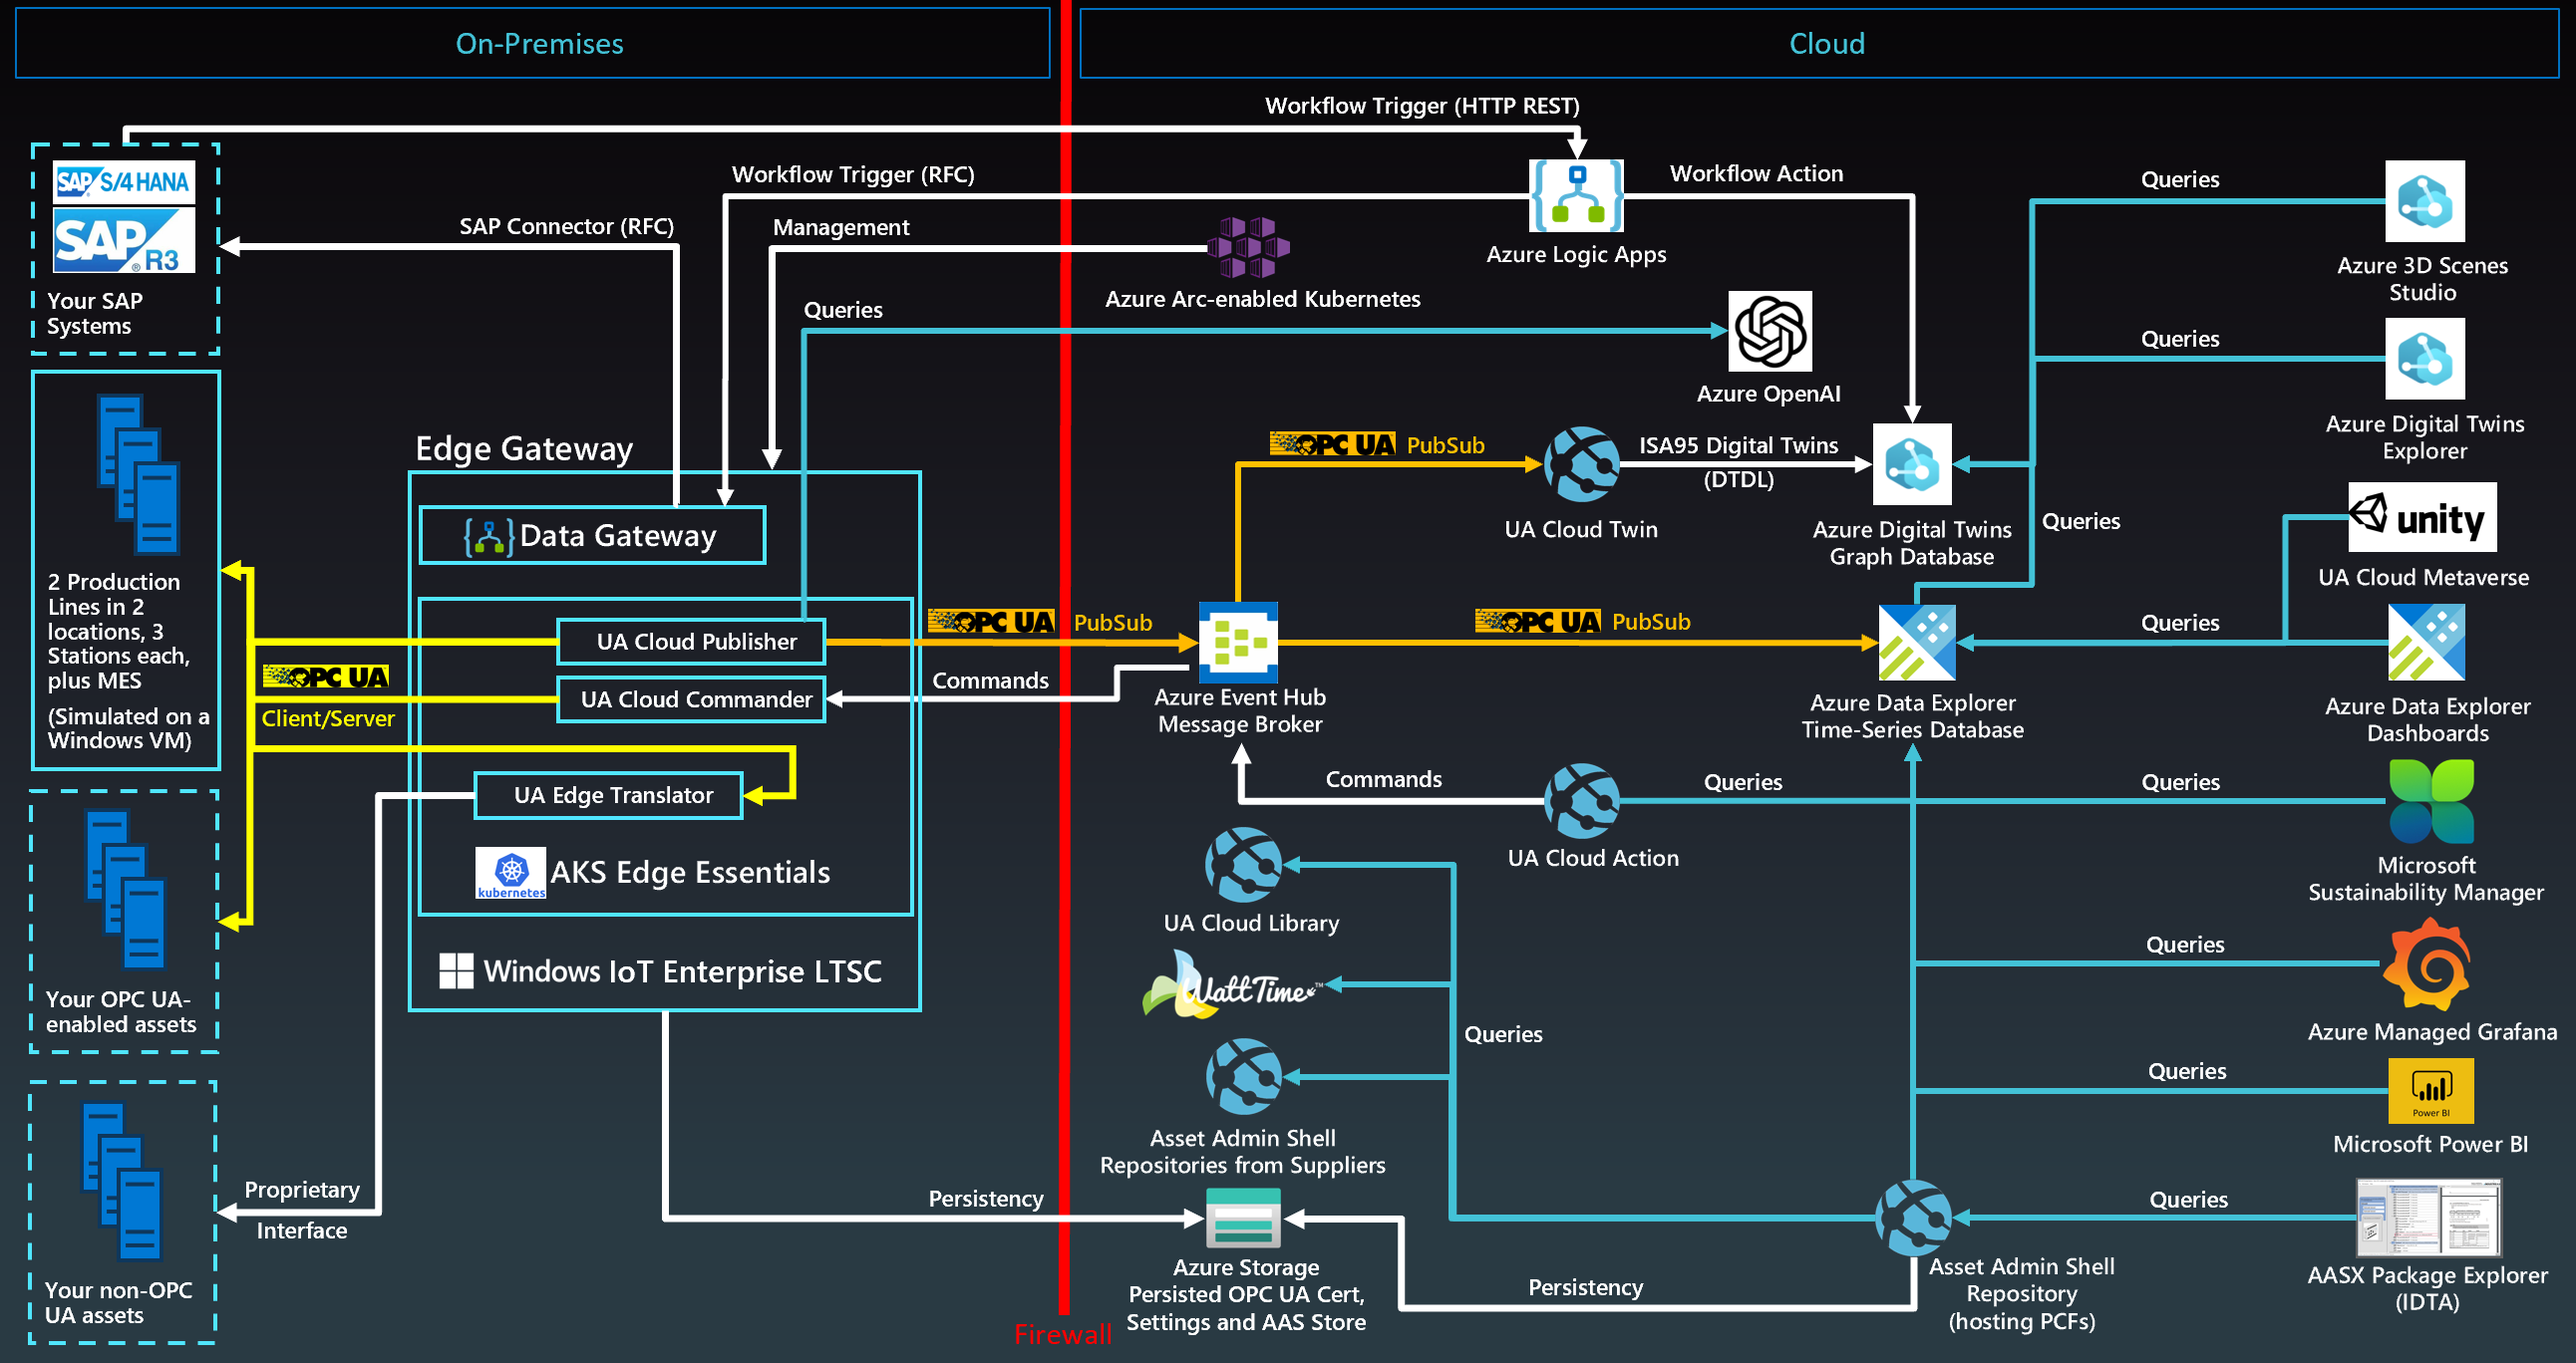
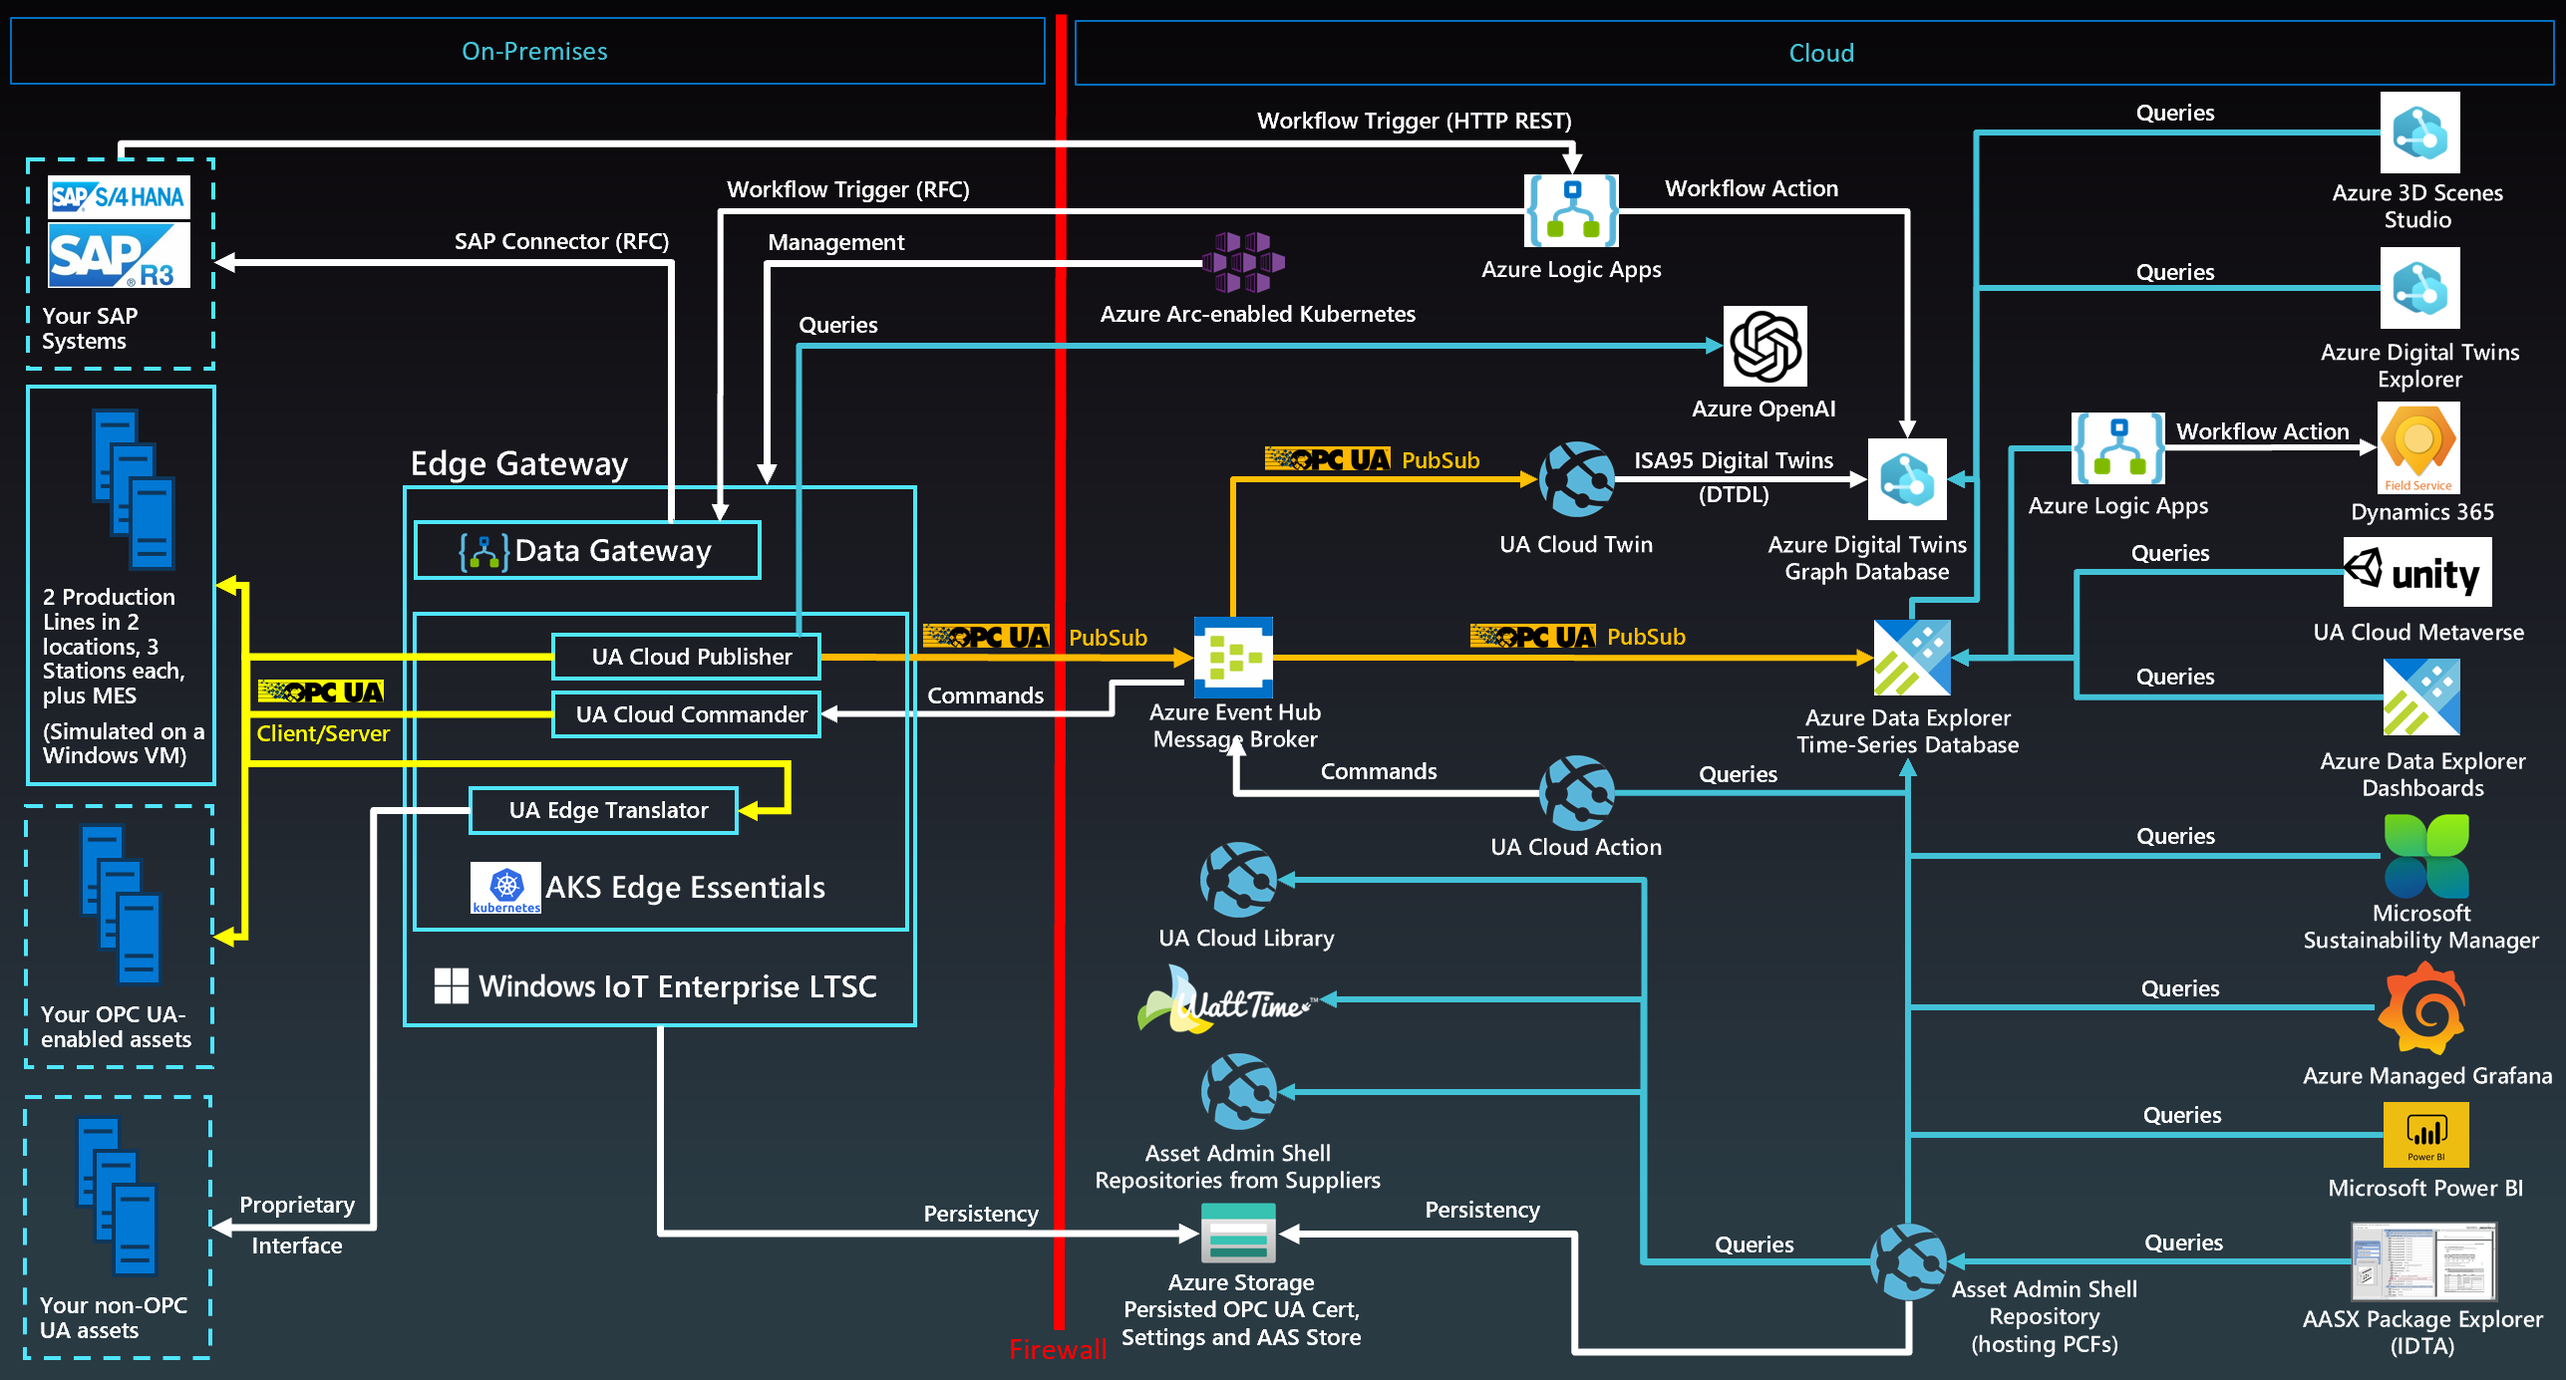
Integrated main page with the Dynamics 365 config page, updated the wording for Dynamics 365 and also updated the arch diagram.

diff --git a/Tools/DynamicsFS/ConfigureDynamicsFS.md b/Tools/DynamicsFS/ConfigureDynamicsFS.md
@@ -1,43 +1,41 @@
-# Configure Dynamics365 Field Services Integration
+# Configure Dynamics 365 Field Service
 
-The aim of this integration is to showcase the following scenarios:
+This integration showcases the following scenarios:
 
-- Create Assets from the manufacturing ontologies into Dynamics Field Services Assets.
-- Create IoT Alerts in Dynamics Field Services when a certain threshold has been reached.
+- Uploading assets from the Manufacturing Ontologies reference solution to Dynamics 365 Field Service.
+- Create alerts in Dynamics 365 Field Service when a certain threshold on Manufacturing Ontologies reference solution telemetry data is reached.
 
-This configuration cannot be used for production situations, but it just to showcase how both solutions can be connected.
+The integration leverages Azure Logics Apps. With Logic Apps bussiness-critcal apps and services can be connected via no-code workflows. We will fetch information from Azure Data Explorer and trigger actions in Dynamics 365 Field Service.
 
-For the integration we have used Azure Logics Apps. With Logic Apps you can connect bussiness-critcal apps and services without writing a single line of code. We will fetch information from the Azure Data Explorer database to store into Dynamics365 Field Services.
+## Setup
 
-## Setup the standard services
+First, if you are not already a Dynamics 365 Field Service customer, activate a 30 day trial [here](https://dynamics.microsoft.com/en-us/field-service/field-service-management-software/free-trial). Remember is to use the same Azure Entra ID (formerly Azure Active Directory) used while deploying the Manufacturing Ontologies reference solution. Otherwise, you would need to configure cross tenant authentication which is not part of these instructions!
 
-First of all you need to activate a trial for Dynamics Field Services. You can do this [here](https://dynamics.microsoft.com/en-us/field-service/field-service-management-software/free-trial) and you will get a 30 days trial. Important to remember is to use the same Azure Entra ID (former Azure Active Directory) as the manufacturing ontologies, else you need to configure cross tenant authentication. That is not part of this manual. If you have activated your trial, you are good to go!
+### Create an Azure Logic App to create assets in Dynamics 365 Field Service
 
-### Create Azure Logic App to create assets in Dynamics365 Field Services
-
-Let's start with getting the assets from the manufacturing ontologies into Dynamics365 FS. For that we will use an Azure Logic App.
+Let's start with uploading assets from the Manufacturing Ontologies into Dynamics 365 Field Service:
 
 1; Go to the Azure Portal and create a new Logic App as shown below:
 
 ![Create Logic App](img/createlogicapp.png)
 
-2; Give the Azure Logic App a name, place it in the right resource group.
+2; Give the Azure Logic App a name, place it in the same resource group as the Manufacturing Ontologies reference solution.
 
 ![Configure Logic App](img/configurelogicapp.png)
 
-3; Click in the left navigation bar on 'Workflows':
+3; Click on 'Workflows':
 
 ![Navigate to flow](img/createlogicappflow.png)
 
-4; Give your flow a name - for this scenario we will use the stateful state type, because assets are not flows of data.
+4; Give your workflow a name - for this scenario we will use the stateful state type, because assets are not flows of data.
 
 ![Give flow a name](img/createlogicappflow2.png)
 
-5; Create a new trigger. We will start with creating a 'Recurrence' tigger. This will check the database every day if new assets are created. Off course you can change this more often.
+5; Create a new trigger. We will start with creating a 'Recurrence' tigger. This will check the database every day if new assets are created. Of course, you can change this to happen more often.
 
 ![Create Recurrence](img/flow2scheduler.png)
 
-6; In the next action, search for 'Azure Data Explorer' and select the 'Run KQL query' command. Within this query we will search the Azure Digital Twins what kind of assets the twin has. Uw the following query to get your assets and paste it in the query field:
+6; In actions, search for 'Azure Data Explorer' and select the 'Run KQL query' command. Within this query we will check what kind of assets we have. Use the following query to get assets and paste it in the query field:
 
 ```TEXT
 let ADTInstance =  "PLACE YOUR ADT URL";let ADTQuery = "SELECT T.OPCUAApplicationURI as AssetName, T.$metadata.OPCUAApplicationURI.lastUpdateTime as UpdateTime FROM DIGITALTWINS T WHERE IS_OF_MODEL(T , 'dtmi:digitaltwins:opcua:nodeset;1') AND T.$metadata.OPCUAApplicationURI.lastUpdateTime > 'PLACE DATE'";evaluate azure_digital_twins_query_request(ADTInstance, ADTQuery)
@@ -45,22 +43,22 @@ let ADTInstance =  "PLACE YOUR ADT URL";let ADTQuery = "SELECT T.OPCUAApplicati
 
 ![Connect Kusto](img/designerkqlquery2.png)
 
-7; To get your data into Dynamics365 Field Services you need to connect to the Microsoft Dataverse. Connect to your Dynamics365 FS instance and use the following configuration:
+7; To get your asset data into Dynamics 365 Field Service, you need to connect to Microsoft Dataverse. Connect to your Dynamics 365 Field Service instance and use the following configuration:
 
 - Use the 'Customer Assets' Table Name
-- But the 'AssetName' into the Name field
+- Put the 'AssetName' into the Name field
 
 ![Configure Dataverse](img/designerkqlquery3.png)
 
-8; Save your workflow and run it! You will see in several seconds new assets will be created in Dynamics365 FS.
+8; Save your workflow and run it. You will see in a few seconds later that new assets are created in Dynamics 365 Field Service.
 
 ![Run](img/runflow.png)
 
-### Create Azure Logic App to create IoT Alerts in Dynamics365 Field Services
+### Create Azure Logic App to create Alerts in Dynamics 365 Field Service
 
-This workflow will create IoT Alerts into Dynamics365 FS when a certain threshold of FaultyTime will be reached. I have used the same logic as the previous flow.
+This workflow will create alerts in Dynamics 365 Field Service, specifically when a certain threshold of FaultyTime on an asset of the Manufacturing Ontologies reference solution is reached.
 
-1; Because there are some limitations in the connector, we first need to create an Azure Data Explorer function to get this working. Go to your Azure Data Explorer query webpage and run the following code to create a FaultyFieldAssets function.
+1; We first need to create an Azure Data Explorer function to get the right data. Go to your Azure Data Explorer query panel in the Azure Portal and run the following code to create a FaultyFieldAssets function:
 
 ![Create function ADX](img/adxquery.png)
 
@@ -79,18 +77,18 @@ and Timestamp between (Lw_start .. now())
 | project AssetName, Name, Value, Timestamp}
 ```
 
-2; Create a new workflow in the Azure Logic App. Create a 'Recurrance' trigger to start - every 3 minutes. Create as action 'Azure Data Explorer' and select the Run KQL Query.
+2; Create a new workflow in Azure Logic App. Create a 'Recurrance' trigger to start - every 3 minutes. Create as action 'Azure Data Explorer' and select the Run KQL Query.
 
 ![Run KQL Query](img/flow2kqleury.png)
 
-3; Put your cluster URL, select your database and use the Function name created in step 1 as Query.
+3; Enter your Azure Data Explorer Cluster URL, then select your database and use the function name created in step 1 as the query.
 
 ![Alt text](img/flow2adx.png)
 
-4; Select Microsoft Dataverse as next action and put the below configuration in the fields.
+4; Select Microsoft Dataverse as action and put the below configuration in the fields:
 
 ![Configure FS](img/flow2fieldservices.png)
 
-5; Run the workflow and you should see new IoT Alerts in your Dynamics365 FS dashboard!
+5; Run the workflow and to see new alerts being generated in your Dynamics 365 Field Service dashboard:
 
 ![View your alerts in Dynamics365 FS](img/dynamicsiotalerts.png)

diff --git a/README.md b/README.md
@@ -20,6 +20,7 @@
 * [Onboarding the Kubernetes Instance for Management via Azure Arc](https://github.com/digitaltwinconsortium/ManufacturingOntologies#onboarding-the-kubernetes-instance-for-management-via-azure-arc)
 * [Enabling the Product Carbon Footprint Calculation (PCF) in the Asset Admin Shell (AAS) Repository](https://github.com/digitaltwinconsortium/ManufacturingOntologies#enabling-the-product-carbon-footprint-calculation-pcf-in-the-asset-admin-shell-aas-repository)
 * [Connecting the Reference Solution to Microsoft Power BI](https://github.com/digitaltwinconsortium/ManufacturingOntologies#connecting-the-reference-solution-to-microsoft-power-bi)
+* [Connecting the Reference Solution to Microsoft Dynamics 365 Field Service](https://github.com/digitaltwinconsortium/ManufacturingOntologies#connecting-the-reference-solution-to-microsoft-dynamics-365-field-service)
 * [A turn-key alternative: Microsoft Fabric](https://github.com/digitaltwinconsortium/ManufacturingOntologies#a-turn-key-alternative-microsoft-fabric)
 * [Connecting the Reference Solution to On-Premises SAP Systems](https://github.com/digitaltwinconsortium/ManufacturingOntologies#connecting-the-reference-solution-to-on-premises-sap-systems)
 * [Replacing the Production Line Simulation with a Real Production Line](https://github.com/digitaltwinconsortium/ManufacturingOntologies#replacing-the-production-line-simulation-with-a-real-production-line)
@@ -341,6 +342,11 @@ The Asset Admin Shell (AAS) Repository is automatically configured during deploy
 Note: You can add other data from Azure Data Explorer to your report similarily.
 
 <img src="Docs/powerbi.png" alt="powerbi" width="900" />
+
+
+## Connecting the Reference Solution to Microsoft Dynamics 365 Field Service
+
+[Dynamics 365 Field Service](https://learn.microsoft.com/en-us/dynamics365/field-service/overview) is a turnkey SaaS solution for managing field service requests. The integration is documented [here](https://github.com/digitaltwinconsortium/tree/main/Tools/DynamicsFS/ConfigureDynamicsFS.md).
 
 
 ## A Turn-Key Alternative: Microsoft Fabric
